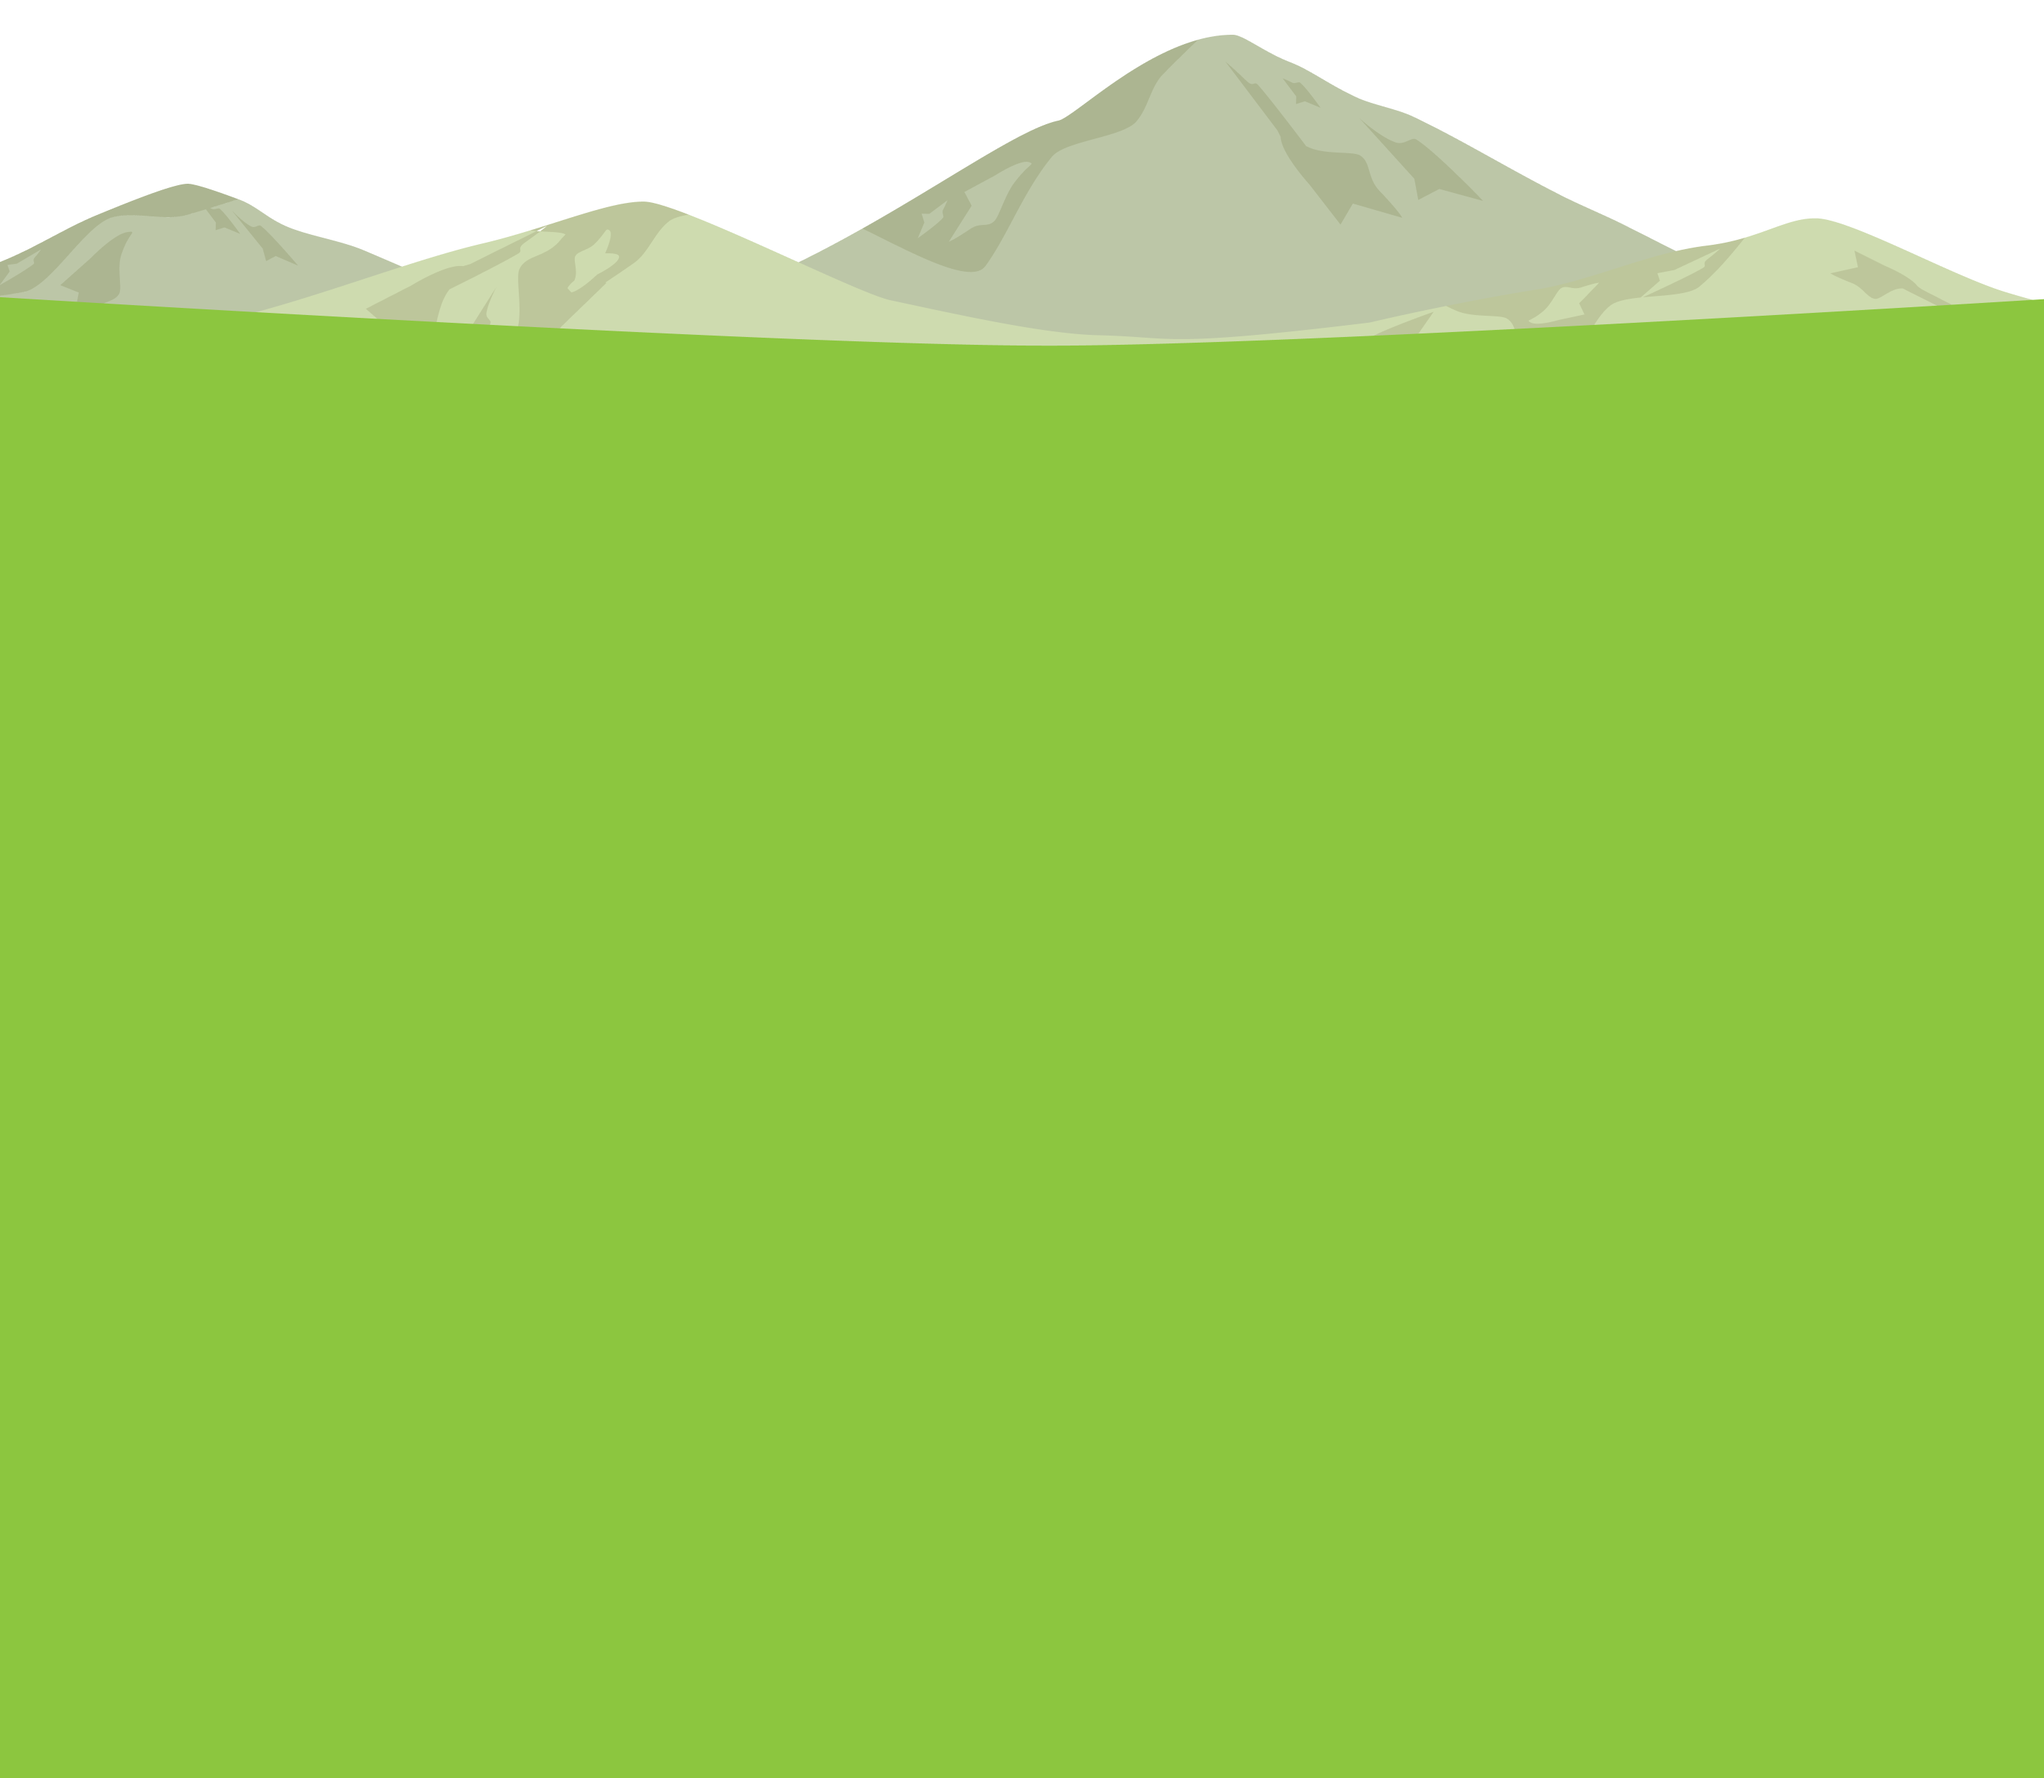
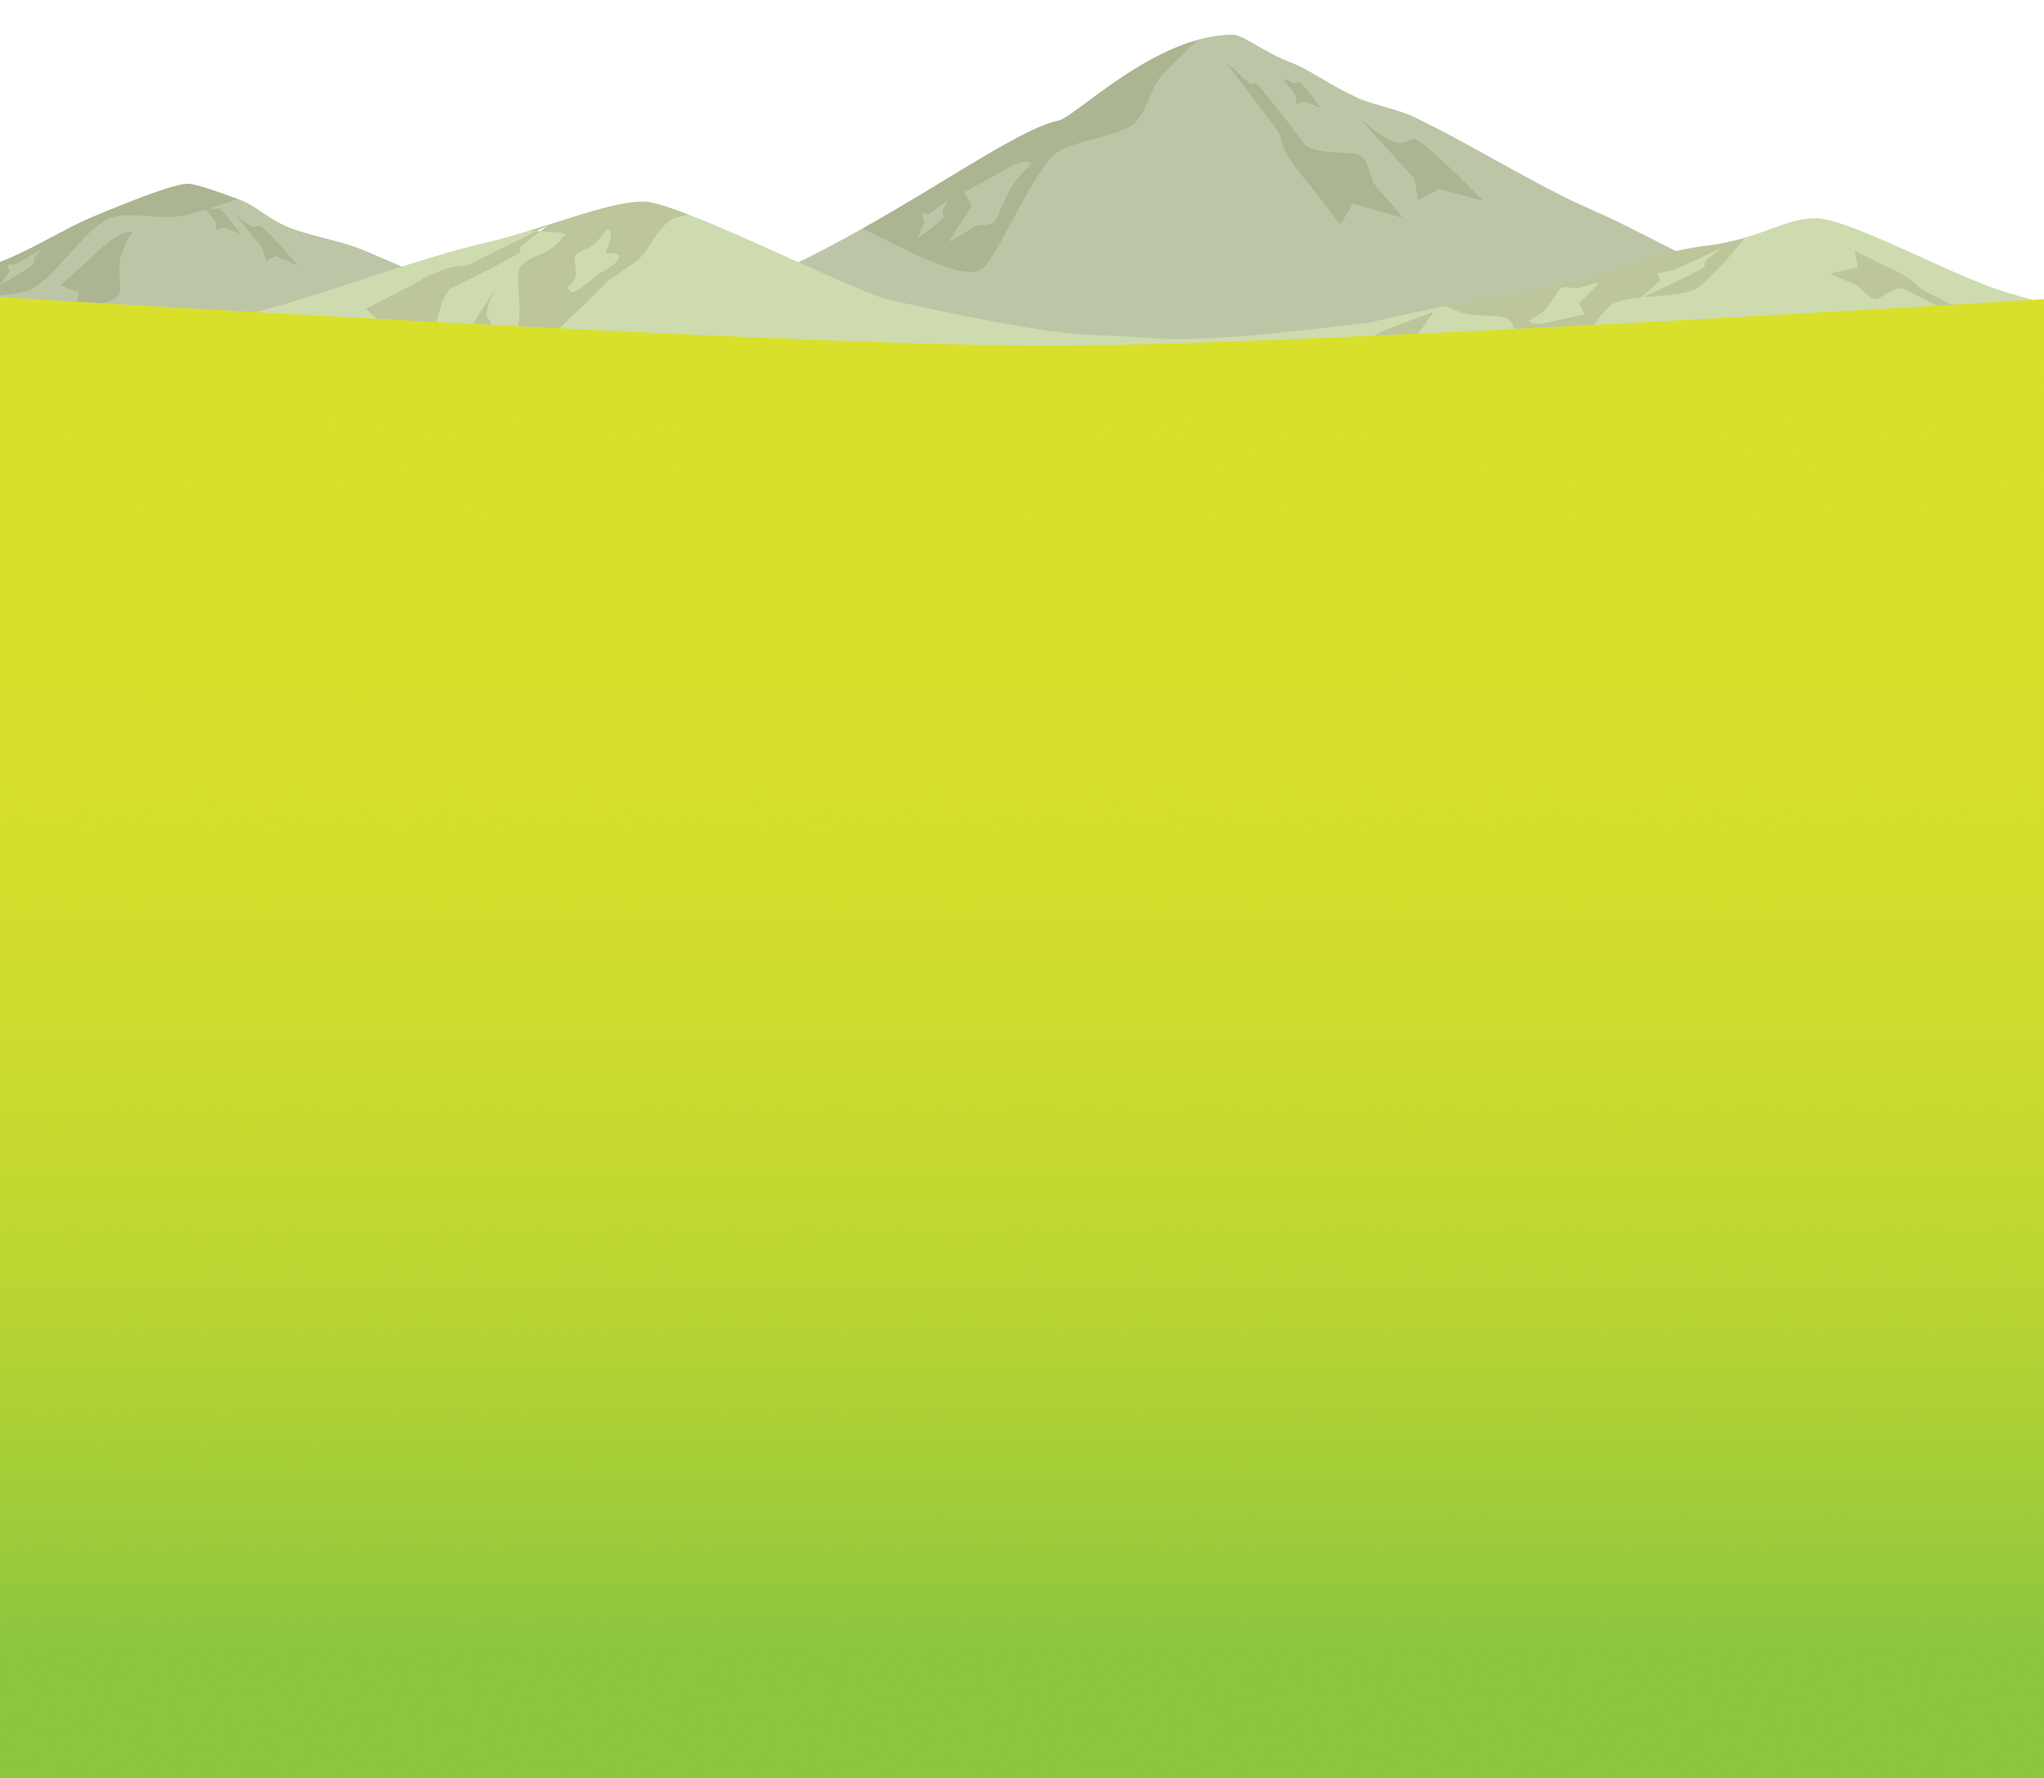
2024/8/28

diff --git a/src/sass/module/_reason.scss b/src/sass/module/_reason.scss
@@ -64,6 +64,11 @@
 
 .reason__shapes {
     position: relative;
+    background-image: url('../images/common/reason-bg2.png');
+    background-position: center;
+    background-repeat: no-repeat;
+    background-size: cover;
+
     @include mq(md) {
         background-image: url('../images/common/reason-bg2.png');
         background-position: calc(50% + 10px) top;
@@ -77,20 +82,6 @@
 }
 
 
-.reason__bgc{
-    background: linear-gradient(
-    to top, 
-    #8CC63F 0%, 
-    #A3CD38 14%, 
-    #BBD532 32%, 
-    #CBDB2E 52%, 
-    #D5DE2B 73%, 
-    #D9E02B 100%
-    );
-    @include mq(md) {
-        background: none;
-    }
-}
 
 .reason__shapes-inner{
     max-width: $max-width;
@@ -105,6 +96,10 @@
 .reason__shapes-img{
     position: relative;
     z-index: 3;
+    margin-top: rem(300);
+    @include mq(md) {
+        margin-top: rem(0);
+    }
 }
 
 .reason__shapes-bg{

diff --git a/src/index.html b/src/index.html
@@ -507,9 +507,6 @@
         </div>
 
         <div class="reason__shapes">
-            <div class="reason__head u-mobile">
-                <img src="./assets/images/common/reason-head.png" alt="山の画像">
-            </div>
             <div class="reason__bgc">
                 <div class="reason__shapes-inner">
                     <div class="reason__shapes-img">

diff --git a/src/sass/module/_aside.scss b/src/sass/module/_aside.scss
@@ -1,0 +1,9 @@
+@use "global" as *;
+
+.aside__img a{
+    transition: 0.5s;
+}
+
+.aside__img a:hover{
+    opacity: 0.5;
+}
